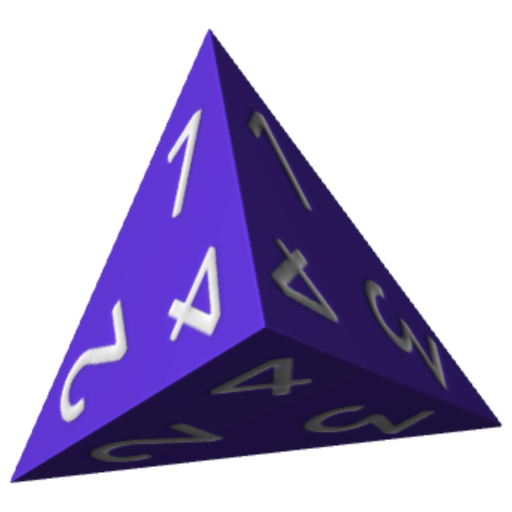
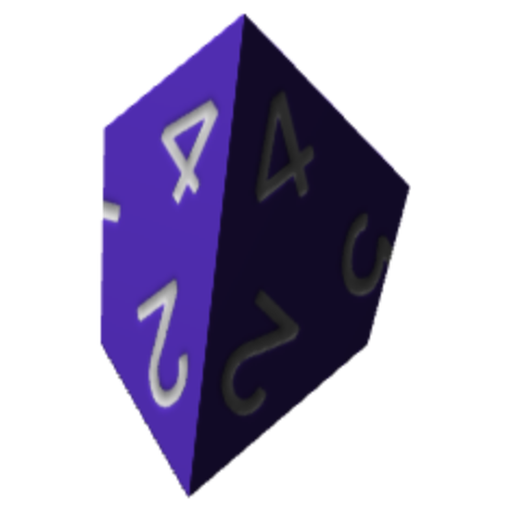
d4/d6 previews at 45deg, smaller non-d20 dice

diff --git a/src/style.css b/src/style.css
@@ -31,7 +31,7 @@ body { background:
 .slot { flex: none; width: var(--slot, 120px); display: flex; justify-content: center; align-items: center; transition: transform .45s cubic-bezier(.2,.8,.2,1), opacity .45s, filter .45s; transform: scale(.52); opacity: .28; filter: grayscale(.8) blur(.4px); cursor: pointer; }
 .slot.near { opacity: .4; }
 .slot.active { transform: scale(1); opacity: 1; filter: none; cursor: pointer; }
-.slot img { width: var(--die, 220px); height: var(--die, 220px); object-fit: contain; display: block; pointer-events: none; -webkit-user-drag: none; }
+.slot img { width: calc(var(--die, 220px) * var(--k, 1)); height: calc(var(--die, 220px) * var(--k, 1)); object-fit: contain; display: block; pointer-events: none; -webkit-user-drag: none; }
 .slot.active img { animation: float 4s ease-in-out infinite; filter: drop-shadow(0 18px 24px rgba(0,0,0,.55)) drop-shadow(0 0 30px rgba(140,100,255,.4)); }
 .stage.shown .slot.active img { opacity: 0; animation: none; transition: opacity .12s; }
 @keyframes float { 0%,100% { translate: 0 -6px; } 50% { translate: 0 6px; } }

diff --git a/src/main.js b/src/main.js
@@ -1,6 +1,7 @@
 import DiceBox from '@3d-dice/dice-box'
 
 const DICE = [20, 12, 10, 8, 6, 4] // от большего к меньшему
+const SIZE = { 20: 1, 12: 0.8, 10: 0.74, 8: 0.7, 6: 0.62, 4: 0.62 } // d20 — самый крупный
 const THEME = 'default'
 const THEME_COLOR = '#6d3df0'
 const MAX_COUNT = 99
@@ -18,6 +19,7 @@ const slots = DICE.map((s, i) => {
   el.className = 'slot'
   el.innerHTML = `<img src="/dice/d${s}.png" alt="d${s}" draggable="false" />`
   el.dataset.i = i
+  el.style.setProperty('--k', SIZE[s])
   track.append(el)
   return el
 })
@@ -223,7 +225,7 @@ async function roll() {
   $('dieSub').textContent = '…'
   try { box.clear() } catch {}
   const n = state.count
-  box.updateConfig({ scale: baseScale() * (n > 20 ? 0.6 : n > 8 ? 0.78 : 1) })
+  box.updateConfig({ scale: baseScale() * SIZE[DICE[state.index]] * (n > 20 ? 0.6 : n > 8 ? 0.78 : 1) })
   buzz(10)
   rollSound(n)
   box.roll(`${n}d${DICE[state.index]}`)

diff --git a/capture.html b/capture.html
@@ -4,8 +4,8 @@ html,body{margin:0;background:transparent;overflow:hidden}
 </style></head><body><div id="dice-box"></div>
 <script type="module">
 import DiceBox from '@3d-dice/dice-box'
-const box = new DiceBox({container:'#dice-box',assetPath:'/assets/dice-box/',theme:'default',themeColor:'#6d3df0',scale:22,
- gravity:2.4,restitution:.45,throwForce:5,spinForce:5,startingHeight:9,settleTimeout:5000,offscreen:true,lightIntensity:1.1,enableShadows:false})
+const box = new DiceBox({container:'#dice-box',assetPath:'/assets/dice-box/',theme:'default',themeColor:'#6d3df0',scale:15,
+ gravity:2.4,restitution:.45,throwForce:5,spinForce:5,startingHeight:9,settleTimeout:5000,offscreen:false,lightIntensity:1.1,enableShadows:false})
 let resolve
 box.onRollComplete = g => resolve?.(g.flatMap(x=>x.rolls.map(r=>r.value))[0])
 await box.init()
